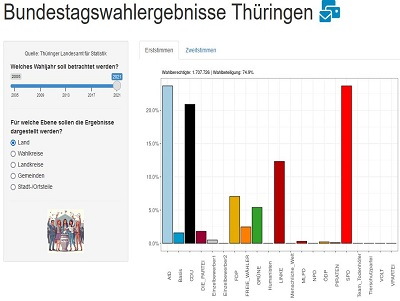
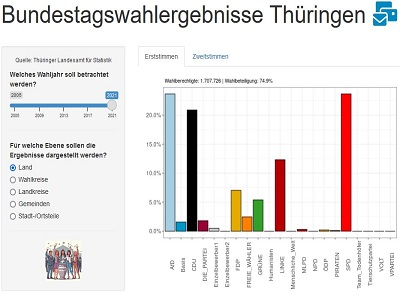
New screenshots for shiny apps and renamed section

Changed region(s): [[0.36, 0.15, 1.0, 0.99], [0.0, 0.15, 0.33, 0.96], [0.0, 0.0, 1.0, 0.09]]

diff --git a/content/shiny-apps/_index.md b/content/shiny-apps/_index.md
@@ -1,6 +1,6 @@
 ---
-title: Apps
-description: Below you find some of my Shiny-Apps.
+title: Shiny-Apps
+description: Below you find apps I built with R/shiny.
 layout: standard
 ---
 
@@ -421,21 +421,21 @@ footer {
               <a class="applink" href="https://philippleppert.shinyapps.io/Disney/" target="_blank">
                 <img class="appimg" src="/img/disney_dice.jpg">
                 <div class="apptitle">Disney-Dice</div>
-                <div class="appdesc">Can't agree on a Disney film? This app can help.</div>
+                <div class="appdesc">Can't agree on a Disney film? This app might help.</div>
               </a>
           </div>
         <div class="shinyapp">
               <a class="applink" href="https://philippleppert.shinyapps.io/Bundestagswahlergebnisse-Thueringen/" target="_blank">
                 <img class="appimg" src="/img/bundestagswahl_th.jpg">
                 <div class="apptitle">Bundestagswahlergebnisse-TH</div>
-                <div class="appdesc">Reintroducing federal election results of non-independent communities for Thuringia.</div>
+                <div class="appdesc">Reintroducing federal election results for "Ortsteile" in Thuringia.</div>
               </a>
           </div>
         <div class="shinyapp">
               <a class="applink" href="https://philippleppert.shinyapps.io/Kartierung-Flurstuecknutzung/" target="_blank">
                 <img class="appimg" src="/img/flurstueck_kartierer.jpg">
                 <div class="apptitle">Flurstück-Kartierer</div>
-                <div class="appdesc">This app can process land register data to produce land-use plans.</div>
+                <div class="appdesc">This app processes land register data to generate land-use plans with plotly.</div>
               </a>
           </div>
       </div>
